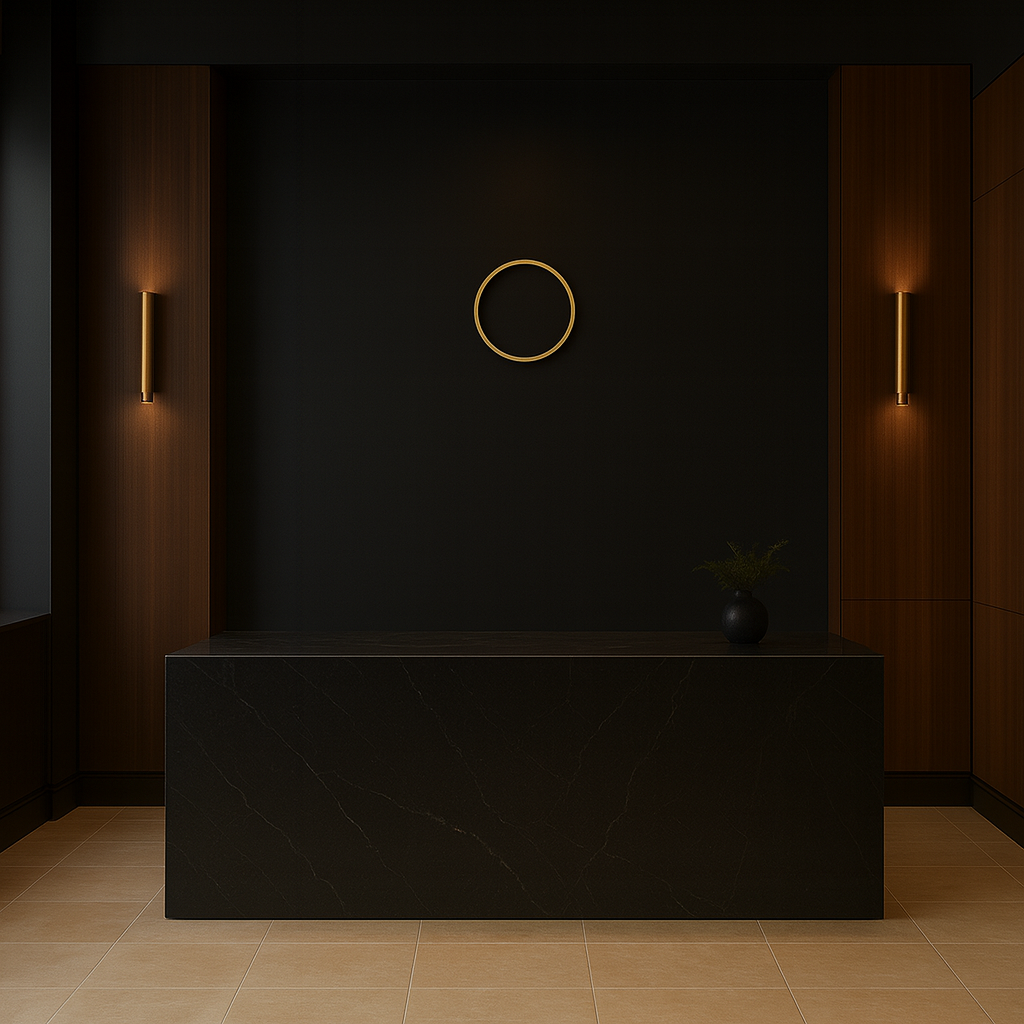
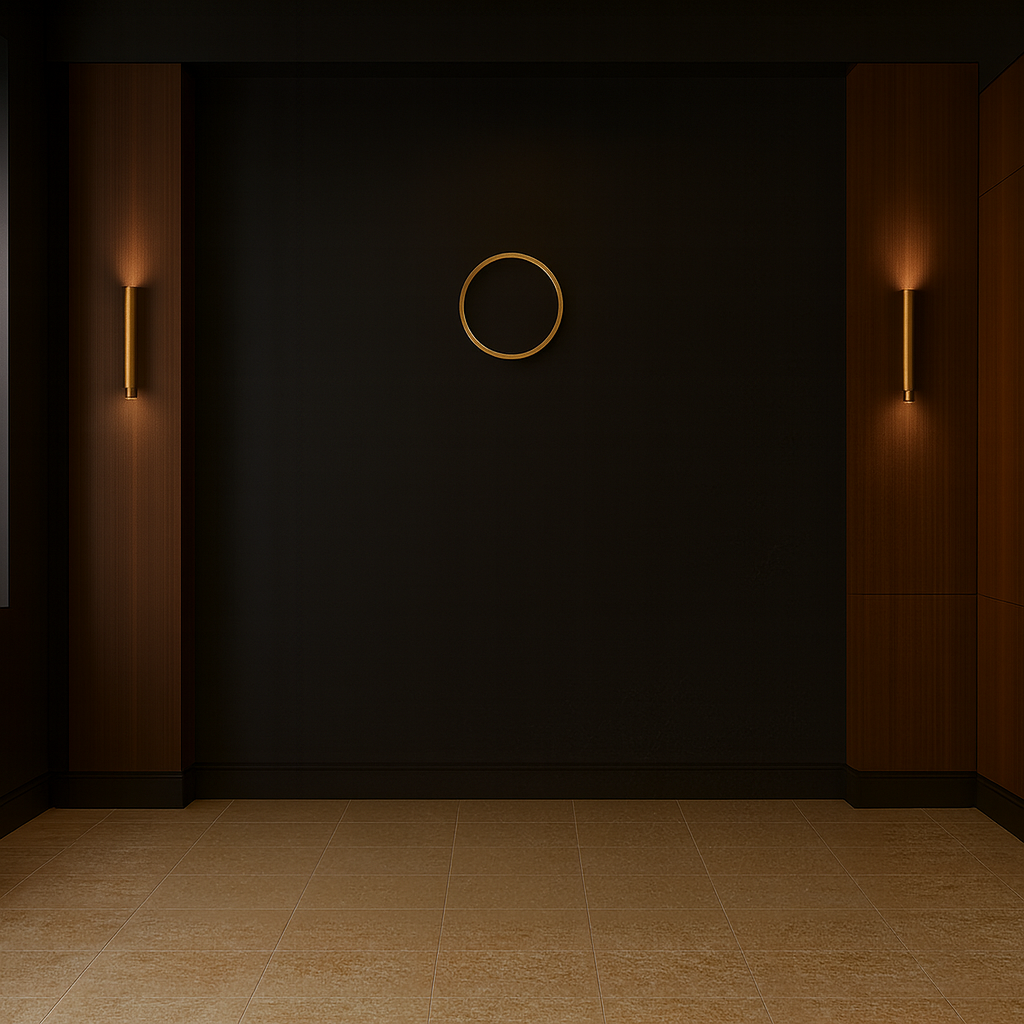
casi calendario

diff --git a/src/herencia/RegistrarF.java b/src/herencia/RegistrarF.java
@@ -1,106 +1,132 @@
 package herencia;
 
+import java.awt.*;
 import java.awt.event.ActionEvent;
 import java.awt.event.ActionListener;
+import java.util.ArrayList;
 import java.util.Calendar;
-import javax.swing.JButton;
-import javax.swing.JComboBox;
-import javax.swing.JLabel;
-import javax.swing.JTextField;
-import javax.swing.SwingConstants;
+import javax.swing.*;
 
 public class RegistrarF extends Frame {
 
     String imagen = "segimg.png";
     private JLabel titleLabel = new JLabel("Registrar Empleado", SwingConstants.CENTER);
-    private JLabel codigoT, nombreT, salarioT, tipoEmpleadoT, extra1T, extra2T, fechaFinT;
-    private JTextField codigo, nombre, salario, extra1, extra2, fechaFin;
-    private JButton crear;
+    private JLabel codigoT, nombreT, salarioT, tipoEmpleadoT, extra1T, fechaFinT;
+    private JTextField codigo, nombre, salario, extra1, fechaFin;
+    private JButton crear, cerrar;
     private JComboBox<String> tipoEmpleado;
+
+    private ArrayList<Empleado> empleados = new ArrayList<>();
 
     public RegistrarF() {
         FrameConFondo(this, cargarFondo(imagen));
-        titulo(titleLabel);
 
-        codigo = new JTextField();
-        codigo.setBounds(50, 100, 150, 25);
-        add(codigo);
+        titleLabel.setFont(new Font("Arial", Font.BOLD, 48));
+        titleLabel.setOpaque(true);
+        titleLabel.setBackground(DORADO_METALICO);
+        titleLabel.setForeground(CREMA_SUAVE);
+        titleLabel.setHorizontalAlignment(SwingConstants.CENTER);
+        titleLabel.setBorder(BorderFactory.createEmptyBorder(10, 20, 10, 20));
+
+        GridBagConstraints gbc = new GridBagConstraints();
+        gbc.gridx = 0;
+        gbc.gridy = 0;
+        gbc.gridwidth = 2;
+        gbc.insets = new Insets(60, 10, 40, 10);
+        gbc.fill = GridBagConstraints.HORIZONTAL;
+        getContentPane().add(titleLabel, gbc);
+
+        gbc = new GridBagConstraints();
+        gbc.insets = new Insets(10, 10, 10, 10);
+        gbc.anchor = GridBagConstraints.WEST;
+        gbc.fill = GridBagConstraints.HORIZONTAL;
+        gbc.gridx = 0;
+        gbc.gridy = 2;
 
         codigoT = new JLabel("Código:");
-        codigoT.setBounds(50, 80, 150, 20);
-        add(codigoT);
+        codigoT.setForeground(CREMA_SUAVE);
+        getContentPane().add(codigoT, gbc);
+        gbc.gridx = 1;
+        codigo = new JTextField(15);
+        getContentPane().add(codigo, gbc);
 
-        nombre = new JTextField();
-        nombre.setBounds(50, 150, 150, 25);
-        add(nombre);
-
+        gbc.gridy++;
+        gbc.gridx = 0;
         nombreT = new JLabel("Nombre:");
-        nombreT.setBounds(50, 130, 150, 20);
-        add(nombreT);
+        nombreT.setForeground(CREMA_SUAVE);
+        getContentPane().add(nombreT, gbc);
+        gbc.gridx = 1;
+        nombre = new JTextField(15);
+        getContentPane().add(nombre, gbc);
 
-        salario = new JTextField();
-        salario.setBounds(50, 200, 150, 25);
-        add(salario);
+        gbc.gridy++;
+        gbc.gridx = 0;
+        salarioT = new JLabel("Salario Base Lps. :");
+        salarioT.setForeground(CREMA_SUAVE);
+        getContentPane().add(salarioT, gbc);
+        gbc.gridx = 1;
+        salario = new JTextField(15);
+        getContentPane().add(salario, gbc);
 
-        salarioT = new JLabel("Salario Base:");
-        salarioT.setBounds(50, 180, 150, 20);
-        add(salarioT);
-
+        gbc.gridy++;
+        gbc.gridx = 0;
         tipoEmpleadoT = new JLabel("Tipo de Empleado:");
-        tipoEmpleadoT.setBounds(50, 230, 150, 20);
-        add(tipoEmpleadoT);
-
+        tipoEmpleadoT.setForeground(CREMA_SUAVE);
+        getContentPane().add(tipoEmpleadoT, gbc);
+        gbc.gridx = 1;
         String[] tipos = {"", "Empleado Estándar", "Empleado Temporal", "Empleado Ventas"};
         tipoEmpleado = new JComboBox<>(tipos);
-        tipoEmpleado.setBounds(50, 250, 200, 25);
-        add(tipoEmpleado);
+        getContentPane().add(tipoEmpleado, gbc);
 
-        extra1 = new JTextField();
-        extra1.setBounds(50, 300, 150, 25);
-        extra1.setVisible(false);
-        add(extra1);
-
-        extra1T = new JLabel();
-        extra1T.setBounds(50, 280, 150, 20);
+        gbc.gridy++;
+        gbc.gridx = 0;
+        extra1T = new JLabel("Tasa Comisión (%):");
+        extra1T.setForeground(CREMA_SUAVE);
         extra1T.setVisible(false);
-        add(extra1T);
+        getContentPane().add(extra1T, gbc);
+        gbc.gridx = 1;
+        extra1 = new JTextField(15);
+        extra1.setVisible(false);
+        getContentPane().add(extra1, gbc);
 
-        extra2 = new JTextField();
-        extra2.setBounds(50, 350, 150, 25);
-        extra2.setVisible(false);
-        add(extra2);
-
-        extra2T = new JLabel();
-        extra2T.setBounds(50, 330, 150, 20);
-        extra2T.setVisible(false);
-        add(extra2T);
-
-        fechaFin = new JTextField();
-        fechaFin.setBounds(50, 400, 150, 25);
-        fechaFin.setVisible(false);
-        add(fechaFin);
-
+        gbc.gridy++;
+        gbc.gridx = 0;
         fechaFinT = new JLabel("Fecha fin contrato (yyyy-mm-dd):");
-        fechaFinT.setBounds(50, 380, 200, 20);
+        fechaFinT.setForeground(CREMA_SUAVE);
         fechaFinT.setVisible(false);
-        add(fechaFinT);
+        getContentPane().add(fechaFinT, gbc);
+        gbc.gridx = 1;
+        fechaFin = new JTextField(15);
+        fechaFin.setVisible(false);
+        getContentPane().add(fechaFin, gbc);
 
+        gbc.gridy++;
+        gbc.gridx = 0;
+        gbc.gridwidth = 2;
+        gbc.anchor = GridBagConstraints.CENTER;
         crear = new JButton("Crear Empleado");
-        crear.setBounds(50, 450, 150, 30);
-        add(crear);
+        crear.setFont(new Font("Arial", Font.BOLD, 20));
+        crear.setBackground(DORADO_METALICO);
+        crear.setForeground(Color.WHITE);
+        getContentPane().add(crear, gbc);
+
+        gbc.gridy++;
+        cerrar = new JButton("Cerrar");
+        cerrar.setFont(new Font("Arial", Font.BOLD, 16));
+        cerrar.setBackground(NEGRO_SUAVE);
+        cerrar.setForeground(Color.WHITE);
+        cerrar.setBorder(BorderFactory.createLineBorder(DORADO_METALICO, 2));
+        getContentPane().add(cerrar, gbc);
 
         tipoEmpleado.addActionListener(new ActionListener() {
             public void actionPerformed(ActionEvent e) {
                 String seleccionado = tipoEmpleado.getSelectedItem().toString();
                 extra1.setVisible(false);
                 extra1T.setVisible(false);
-                extra2.setVisible(false);
-                extra2T.setVisible(false);
                 fechaFin.setVisible(false);
                 fechaFinT.setVisible(false);
 
                 if (seleccionado.equals("Empleado Ventas")) {
-                    extra1T.setText("Tasa Comisión (%):");
                     extra1.setVisible(true);
                     extra1T.setVisible(true);
                 } else if (seleccionado.equals("Empleado Temporal")) {
@@ -114,6 +140,12 @@ public class RegistrarF extends Frame {
         crear.addActionListener(new ActionListener() {
             public void actionPerformed(ActionEvent e) {
                 crearEmpleado();
+            }
+        });
+
+        cerrar.addActionListener(new ActionListener() {
+            public void actionPerformed(ActionEvent e) {
+                dispose();
             }
         });
 
@@ -144,19 +176,34 @@ public class RegistrarF extends Frame {
                     emp = new EmpleadoVentas(cod, nom, salBase, tasa);
                     break;
                 default:
-                    System.out.println("Seleccione un tipo de empleado válido.");
+                    JOptionPane.showMessageDialog(this, "Seleccione un tipo de empleado válido.", "Error", JOptionPane.ERROR_MESSAGE);
                     return;
             }
 
-            System.out.println("Empleado creado con éxito:");
-            System.out.println(emp.mostrarInformacion());
+            empleados.add(emp);
+
+            JOptionPane.showMessageDialog(this, "Empleado creado:\n" + emp.mostrarInformacion(), "Éxito", JOptionPane.INFORMATION_MESSAGE);
+            limpiarCampos();
 
         } catch (Exception ex) {
-            System.out.println("Error al crear empleado: " + ex.getMessage());
+            JOptionPane.showMessageDialog(this, "Error al crear empleado:\n" + ex.getMessage(), "Error", JOptionPane.ERROR_MESSAGE);
         }
+    }
+
+    private void limpiarCampos() {
+        codigo.setText("");
+        nombre.setText("");
+        salario.setText("");
+        extra1.setText("");
+        fechaFin.setText("");
+        tipoEmpleado.setSelectedIndex(0);
+        extra1.setVisible(false);
+        extra1T.setVisible(false);
+        fechaFin.setVisible(false);
+        fechaFinT.setVisible(false);
     }
 
     public static void main(String[] args) {
         new RegistrarF();
     }
-} 
+}
